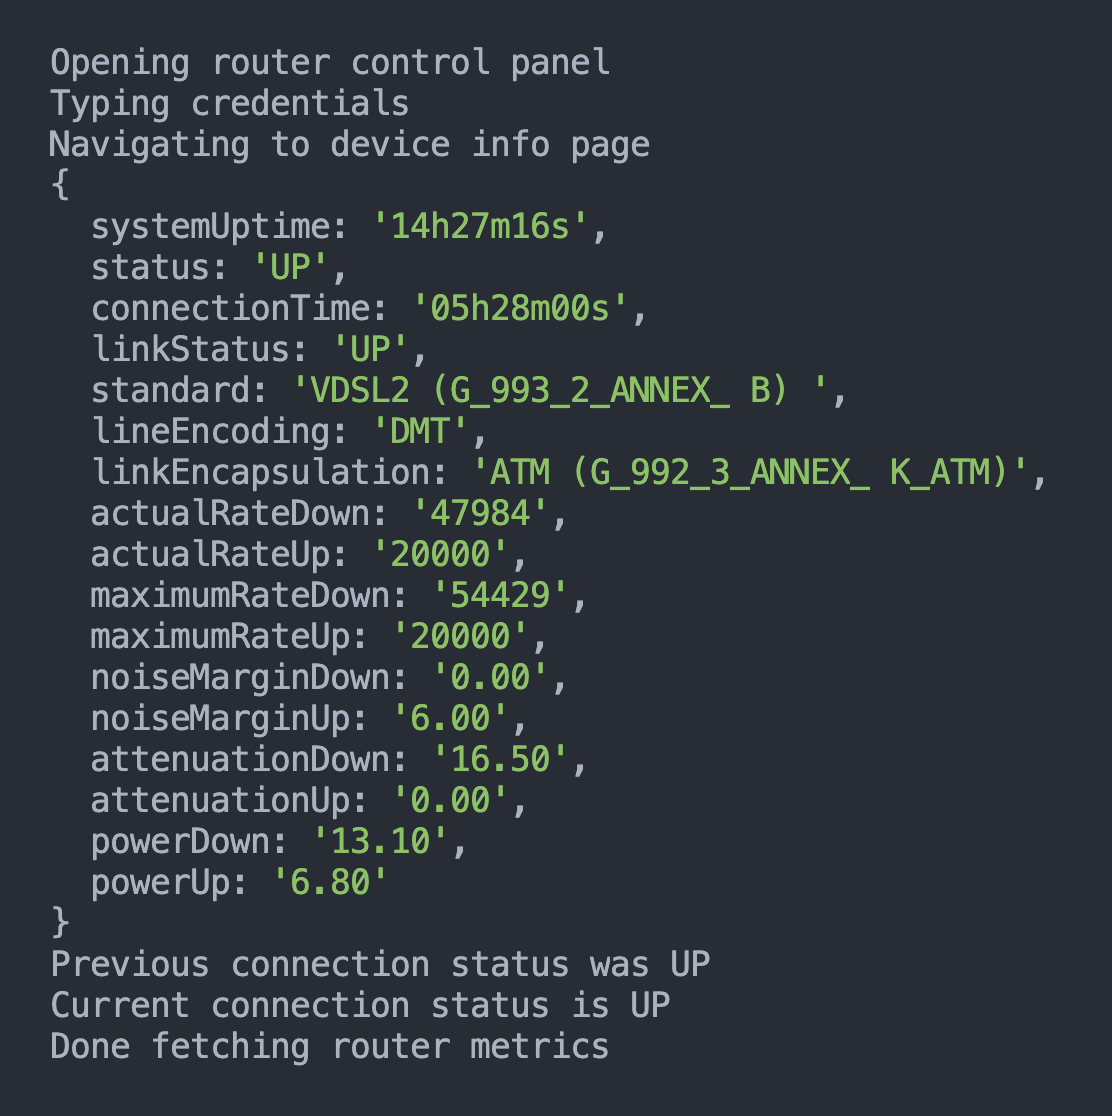
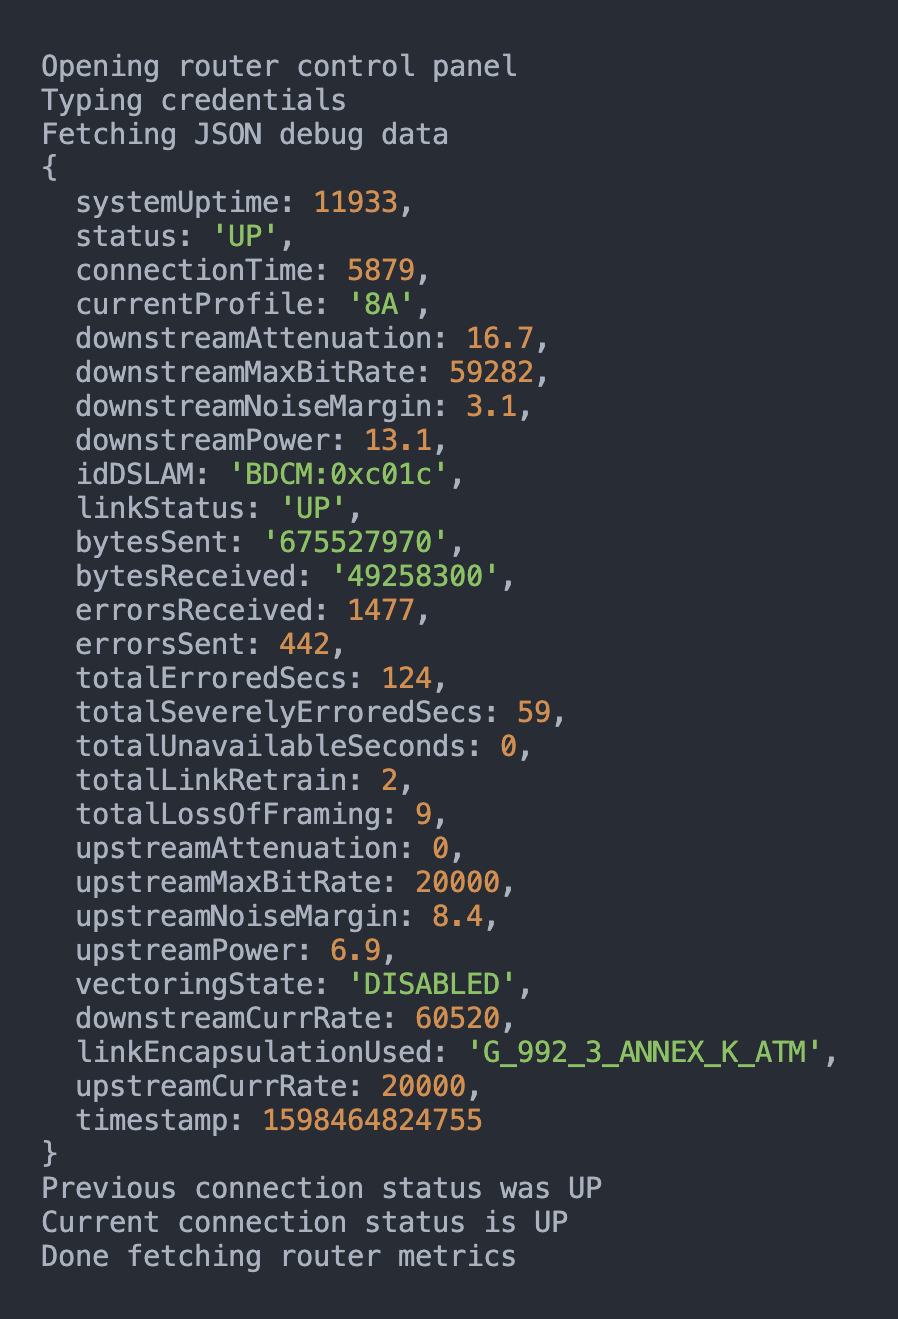
Use the internal JSON API instead of HTML scraping

Changed region(s): [[0.0312, 0.0305, 0.9042, 0.9749], [0.8419, 0.3961, 0.9042, 0.457], [0.8107, 0.4265, 0.8419, 0.457]]

diff --git a/src/index.js b/src/index.js
@@ -56,44 +56,89 @@ async function start() {
       fullPage: true,
     });
 
-    console.log("Navigating to device info page");
+    console.log("Fetching JSON debug data");
 
-    await page.goto("http://192.168.1.1/0.1/gui/#/mybox/deviceInfo/deviceInfo");
+    const rawMetrics = await page.evaluate(() => {
+      const metrics = $.xmo.getValuesTree("Device"); // eslint-disable-line no-undef
 
-    await page.screenshot({
-      path: `screenshots/info.png`,
-      fullPage: true,
-    });
-
-    const metrics = await page.evaluate(() => {
-      const getBySelector = (selector) =>
-        document.querySelector(selector).innerHTML; // eslint-disable-line no-undef
-
-      const getByXdslKey = (key) =>
-        getBySelector(`[ng-bind='deviceInfo.xdsl.${key}']`);
-
-      return {
-        systemUptime: getBySelector("#deviceInfoTip1 [hour-format]"),
-        status: getBySelector("[ng-bind*='deviceInfo.xdsl.status']"),
-        connectionTime: getBySelector("#deviceInfoTip5 [hour-format]"),
-        linkStatus: getBySelector("[ng-bind*='deviceInfo.xdsl.linkStatus']"),
-        standard: getByXdslKey("standard"),
-        lineEncoding: getByXdslKey("lineEncoding"),
-        linkEncapsulation: getByXdslKey("linkEncapsulation"),
-        actualRateDown: getByXdslKey("actualRateDown"),
-        actualRateUp: getByXdslKey("actualRateUp"),
-        maximumRateDown: getByXdslKey("maximumRateDown"),
-        maximumRateUp: getByXdslKey("maximumRateUp"),
-        noiseMarginDown: getByXdslKey("noiseMarginDown"),
-        noiseMarginUp: getByXdslKey("noiseMarginUp"),
-        attenuationDown: getByXdslKey("attenuationDown"),
-        attenuationUp: getByXdslKey("attenuationUp"),
-        powerDown: getByXdslKey("powerDown"),
-        powerUp: getByXdslKey("powerUp"),
-      };
+      return metrics.Device;
     });
 
     await browser.close();
+
+    const {
+      DeviceInfo: { UpTime: systemUptime },
+      DSL: {
+        Lines: [line],
+        Channels: [channel],
+      },
+    } = rawMetrics;
+
+    const {
+      Status: status,
+      ConnectionTime: connectionTime,
+      CurrentProfile: currentProfile,
+      DownstreamAttenuation: downstreamAttenuation,
+      DownstreamMaxBitRate: downstreamMaxBitRate,
+      DownstreamNoiseMargin: downstreamNoiseMargin,
+      DownstreamPower: downstreamPower,
+      IDDSLAM: idDSLAM,
+      LinkStatus: linkStatus,
+      Stats: {
+        BytesSent: bytesSent,
+        BytesReceived: bytesReceived,
+        ErrorsReceived: errorsReceived,
+        ErrorsSent: errorsSent,
+        Total: {
+          ErroredSecs: totalErroredSecs,
+          SeverelyErroredSecs: totalSeverelyErroredSecs,
+          UnavailableSeconds: totalUnavailableSeconds,
+          LinkRetrain: totalLinkRetrain,
+          LossOfFraming: totalLossOfFraming,
+        },
+      },
+      UpstreamAttenuation: upstreamAttenuation,
+      UpstreamMaxBitRate: upstreamMaxBitRate,
+      UpstreamNoiseMargin: upstreamNoiseMargin,
+      UpstreamPower: upstreamPower,
+      VectoringState: vectoringState,
+    } = line;
+
+    const {
+      DownstreamCurrRate: downstreamCurrRate,
+      LinkEncapsulationUsed: linkEncapsulationUsed,
+      UpstreamCurrRate: upstreamCurrRate,
+    } = channel;
+
+    const metrics = {
+      systemUptime,
+      status,
+      connectionTime,
+      currentProfile,
+      downstreamAttenuation: downstreamAttenuation / 10,
+      downstreamMaxBitRate,
+      downstreamNoiseMargin: downstreamNoiseMargin / 10,
+      downstreamPower: downstreamPower / 10,
+      idDSLAM,
+      linkStatus,
+      bytesSent,
+      bytesReceived,
+      errorsReceived,
+      errorsSent,
+      totalErroredSecs,
+      totalSeverelyErroredSecs,
+      totalUnavailableSeconds,
+      totalLinkRetrain,
+      totalLossOfFraming,
+      upstreamAttenuation: upstreamAttenuation / 10,
+      upstreamMaxBitRate,
+      upstreamNoiseMargin: upstreamNoiseMargin / 10,
+      upstreamPower: upstreamPower / 10,
+      vectoringState,
+      downstreamCurrRate,
+      linkEncapsulationUsed,
+      upstreamCurrRate,
+    };
 
     metrics.timestamp = Date.now();
 
@@ -129,8 +174,10 @@ async function getPreviousStatus() {
   return "UNKNOWN";
 }
 
+console.log("\n\n\n\n\n");
+
 start()
-  .then(() => console.log("Done fetching router metrics"))
+  .then(() => console.log("Done fetching router metrics\n\n\n\n\n\n"))
   .catch((error) => {
     console.error("Caught an error", error);
 

diff --git a/src/toCsv.js b/src/toCsv.js
@@ -1,0 +1,54 @@
+const { argv } = require("process");
+const fs = require("fs").promises;
+
+async function readInputFile(path) {
+  try {
+    const body = await fs.readFile(path, "utf-8");
+
+    return body;
+  } catch (error) {
+    console.error(`Error reading input file from path: ${path}`);
+
+    process.exit(1);
+  }
+}
+
+async function run() {
+  const inputPath = argv[2];
+
+  if (!inputPath) {
+    console.info(
+      "Provide the path to the input file as the first CLI argument"
+    );
+
+    process.exit(1);
+  }
+
+  const body = await readInputFile(inputPath);
+
+  const entries = body
+    .trim()
+    .split("\n")
+    .map((line) => JSON.parse(line))
+    .map((entry) => {
+      return {
+        ...entry,
+        timestamp: new Date(entry.timestamp)
+          .toLocaleString("en-GB", {
+            timeZone: "UTC",
+          })
+          .replace(",", ""),
+      };
+    });
+
+  const header = Object.keys(entries[0]);
+
+  const headerString = header.join(",");
+  const entryStrings = entries.map((entry) => Object.values(entry).join(","));
+
+  const csv = [headerString, ...entryStrings].join("\n");
+
+  await fs.writeFile("metrics.csv", csv, "utf-8");
+}
+
+run();

diff --git a/README.md b/README.md
@@ -3,7 +3,7 @@
 <img src="./docs/output.png" width="400" />
 
 A simple bot that periodically hits the admin panel for my [TalkTalk](http://talktalk.co.uk/)
-SG4K10001400t VDSL router and scrapes the broadband WAN metrics.
+Sagemcom F@ST 5364 VDSL router (software version `SG4K10002816t`) and fetches various device and WAN metrics.
 
 Those metrics are logged to a file as seperate rows of JSON. In the future I'd like to
 ingest these metrics and visualise them in Grafana.
@@ -22,14 +22,42 @@ Run the script from a computer on your local network:
 
 ## Archived Metrics
 
-Every time the script runs a new line is appended to a `metrics.log` file in the current directory.
+For every script invocation a new line is appended to a `metrics.log` file in the current directory. A sample of the JSON
+properties can be found below, for readability it has been formatted onto multiple lines.
 
 You could parse this file however you want, perhaps using the excellent [jq](https://stedolan.github.io/jq/) utility.
 
 ```json
-{"systemUptime":"14h32m52s","status":"UP","connectionTime":"05h33m36s","linkStatus":"UP","standard":"VDSL2 (G_993_2_ANNEX_ B) ","lineEncoding":"DMT","linkEncapsulation":"ATM (G_992_3_ANNEX_ K_ATM)","actualRateDown":"47984","actualRateUp":"20000","maximumRateDown":"54429","maximumRateUp":"20000","noiseMarginDown":"0.00","noiseMarginUp":"6.00","attenuationDown":"16.50","attenuationUp":"0.00","powerDown":"13.10","powerUp":"6.80","timestamp":1597272076429}
-{"systemUptime":"14h33m04s","status":"DOWN","connectionTime":"05h33m48s","linkStatus":"UP","standard":"VDSL2 (G_993_2_ANNEX_ B) ","lineEncoding":"DMT","linkEncapsulation":"ATM (G_992_3_ANNEX_ K_ATM)","actualRateDown":"47984","actualRateUp":"20000","maximumRateDown":"54429","maximumRateUp":"20000","noiseMarginDown":"0.00","noiseMarginUp":"6.00","attenuationDown":"16.50","attenuationUp":"0.00","powerDown":"13.10","powerUp":"6.80","timestamp":1597272087700}
-{"systemUptime":"14h33m21s","status":"UP","connectionTime":"05h34m05s","linkStatus":"UP","standard":"VDSL2 (G_993_2_ANNEX_ B) ","lineEncoding":"DMT","linkEncapsulation":"ATM (G_992_3_ANNEX_ K_ATM)","actualRateDown":"47984","actualRateUp":"20000","maximumRateDown":"54429","maximumRateUp":"20000","noiseMarginDown":"0.00","noiseMarginUp":"6.00","attenuationDown":"16.50","attenuationUp":"0.00","powerDown":"13.10","powerUp":"6.80","timestamp":1597272105107}
+{
+  "systemUptime": 11764, // seconds of uptime
+  "status": "UP",
+  "connectionTime": 5879, // seconds since the WAN connection was established
+  "currentProfile": "8A",
+  "downstreamAttenuation": 16.7, // dB
+  "downstreamMaxBitRate": 59282, // Kbps
+  "downstreamNoiseMargin": 3.1, // dB
+  "downstreamPower": 13.1, // dBm
+  "idDSLAM": "BDCM:0xc01c",
+  "linkStatus": "UP",
+  "bytesSent": "652664415", // bytes
+  "bytesReceived": "47157240", // bytes
+  "errorsReceived": 1477,
+  "errorsSent": 442,
+  "totalErroredSecs": 124,
+  "totalSeverelyErroredSecs": 59,
+  "totalUnavailableSeconds": 0,
+  "totalLinkRetrain": 2,
+  "totalLossOfFraming": 9,
+  "upstreamAttenuation": 0, // dB
+  "upstreamMaxBitRate": 20000, // Kbps
+  "upstreamNoiseMargin": 8.4, // dB
+  "upstreamPower": 6.9, // dBm
+  "vectoringState": "DISABLED",
+  "downstreamCurrRate": 60520, // Kbps
+  "linkEncapsulationUsed": "G_992_3_ANNEX_K_ATM",
+  "upstreamCurrRate": 20000, // Kbps
+  "timestamp": 1598464656363 // milliseconds
+}
 ```
 
 ## Deployment
@@ -79,6 +107,11 @@ Environment="ADMIN_PASSWORD=YOUR_ROUTER_ADMIN_PASSWORD_HERE"
 Don't forget to reload `systemd` after creating these config files:
 
 `sudo systemctl daemon-reload`
+
+# Convert to CSV
+
+Run `node ./src/toCsv.js ./metrics.log` to convert the JSON-per-line metrics file to CSV. This
+can then be imported into Excel or Google Sheets to graph.
 
 ## License
 
